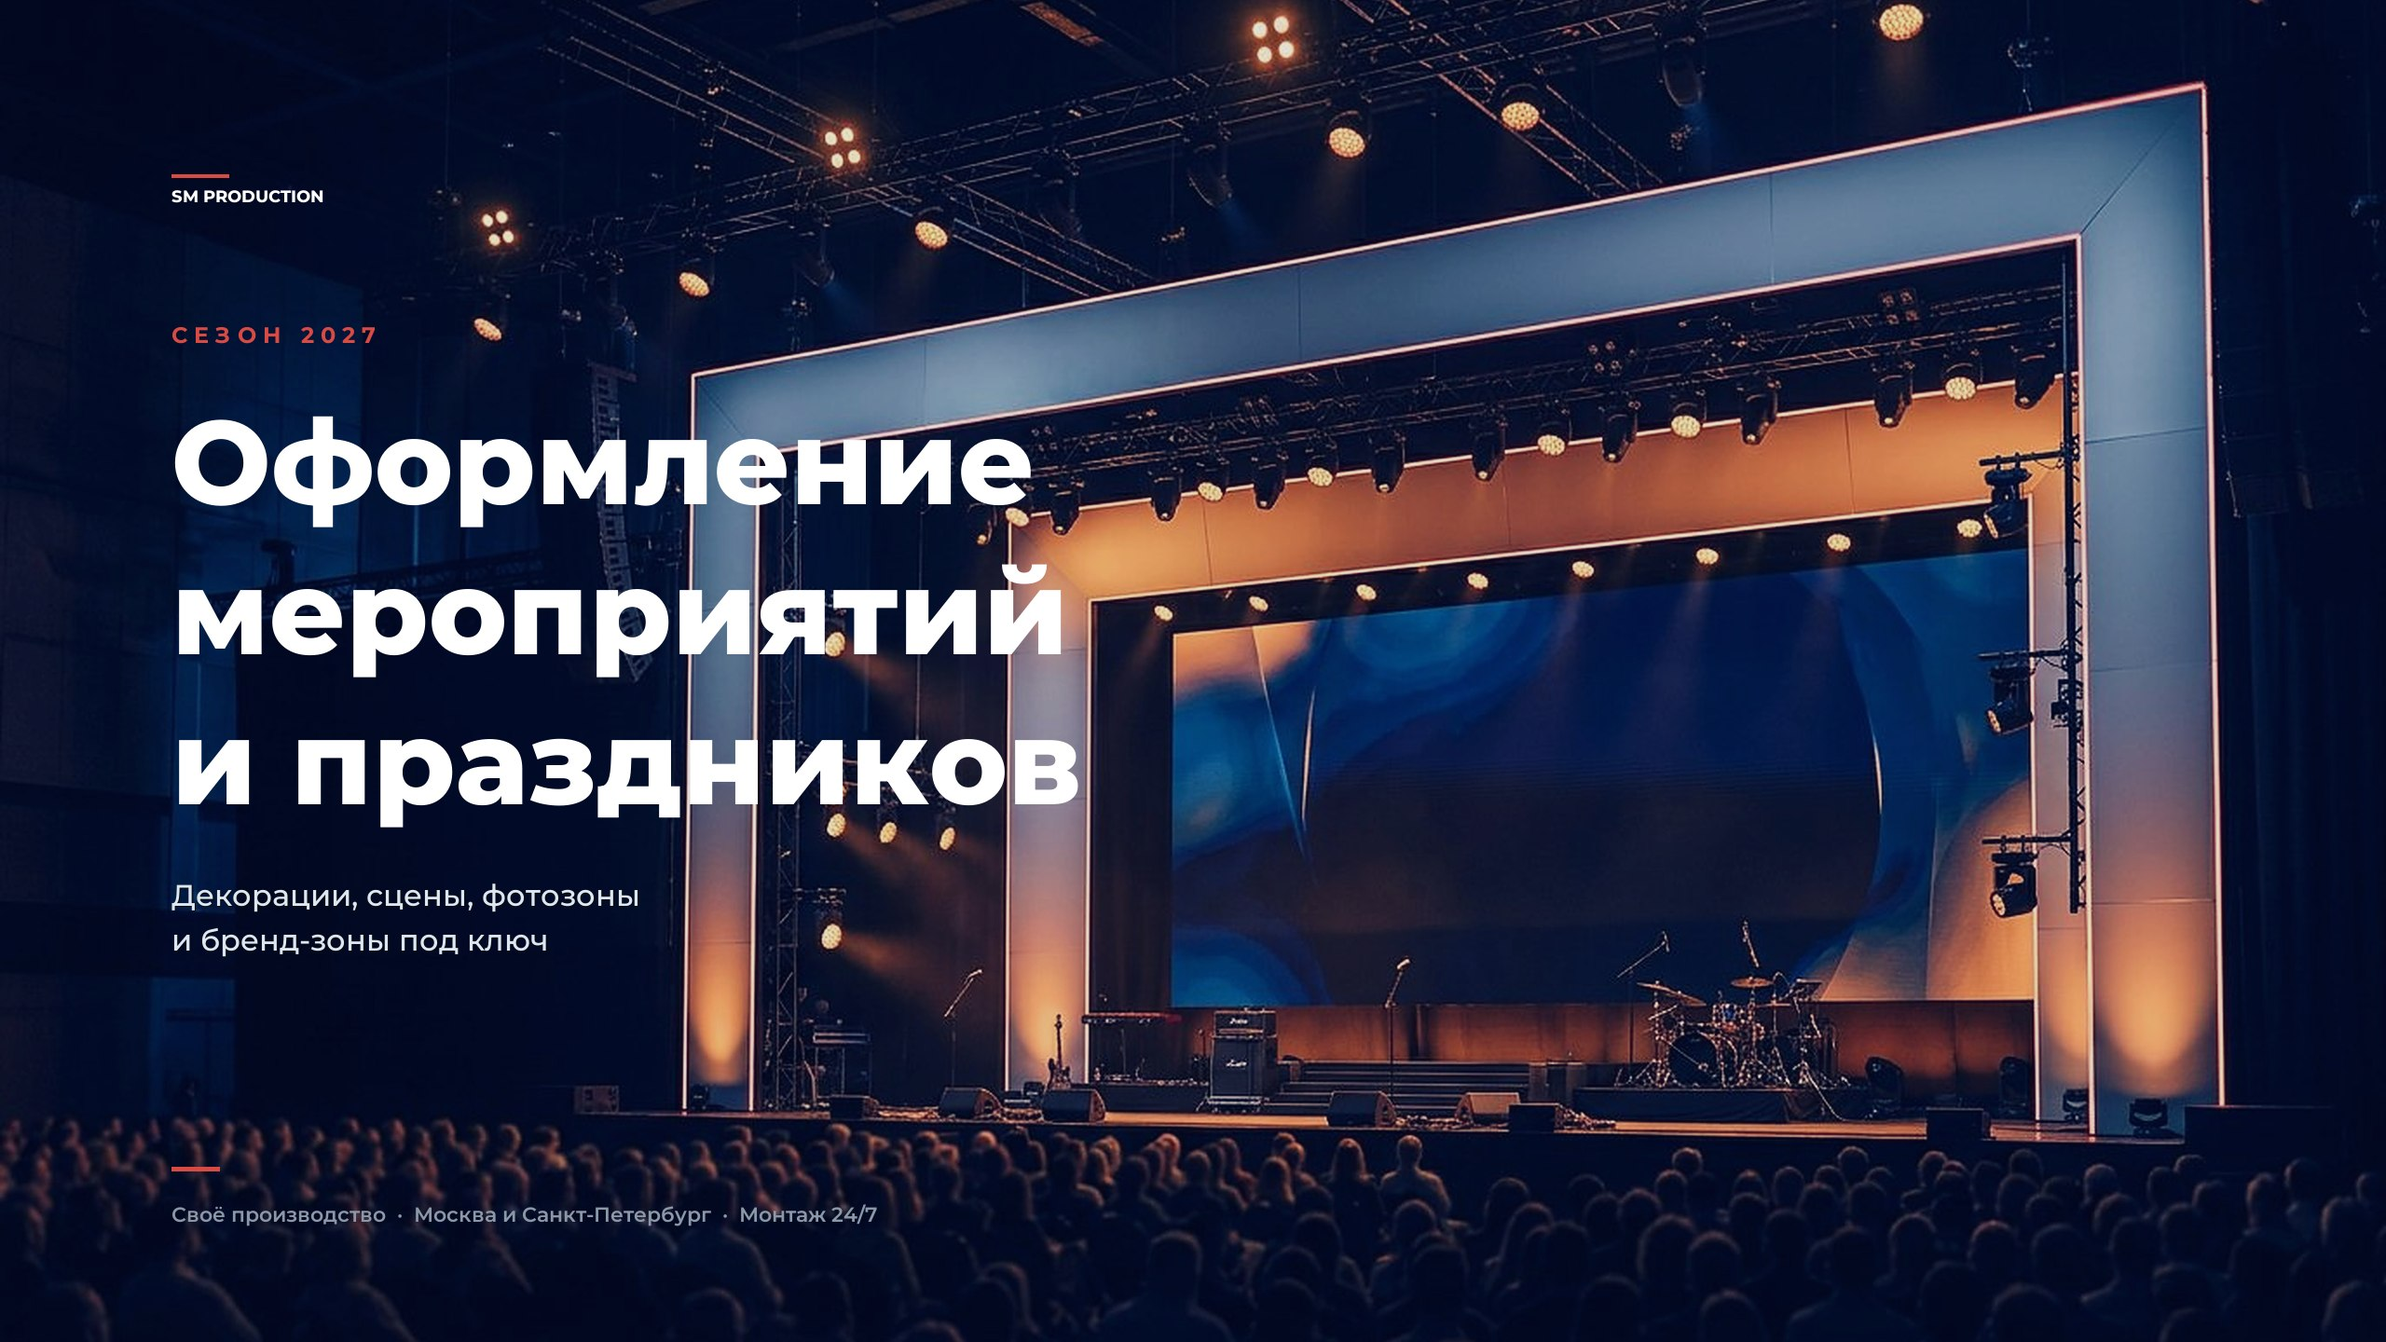
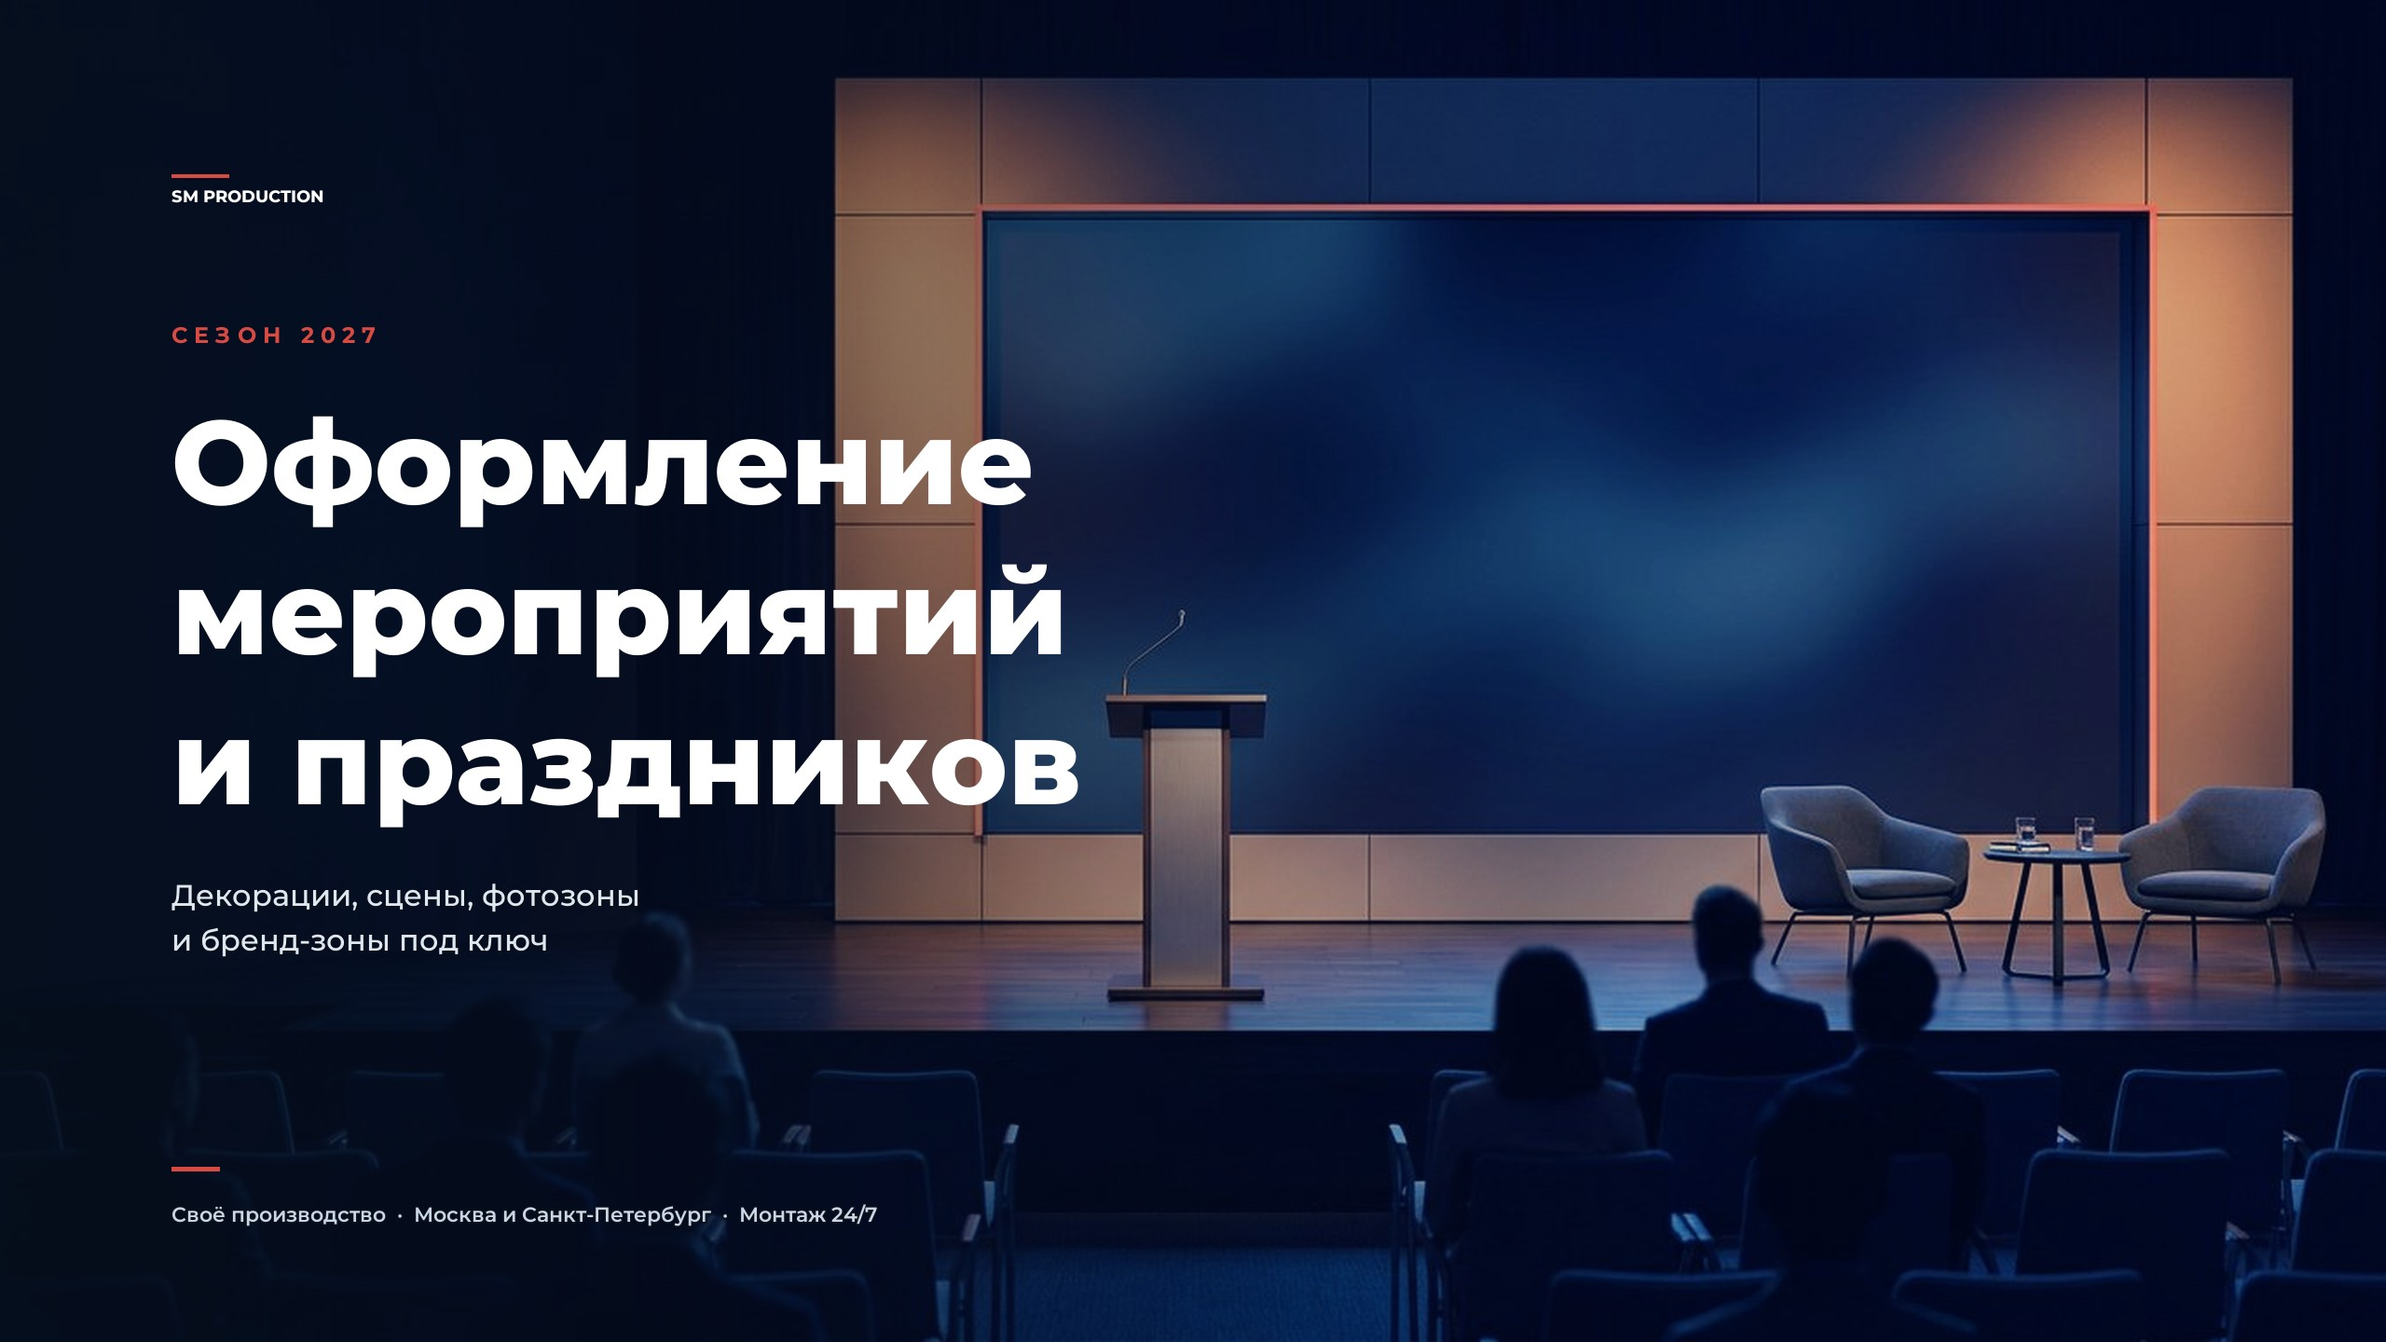
Rebuild homepage hero for conferences, fix text scrim that never applied

diff --git a/marketing/site-hero/build_cover.py b/marketing/site-hero/build_cover.py
@@ -30,7 +30,7 @@ NAVY = (8, 26, 43)
 CORAL = (217, 74, 67)
 WHITE = (255, 255, 255)
 MUTED = (188, 199, 212)
-DIM = (138, 152, 168)
+DIM = (203, 214, 228)
 
 if not FONT_VF.exists():
     raise SystemExit(f"нет шрифта: {FONT_VF}")
@@ -140,25 +140,32 @@ def vignette(image: Image.Image, strength: float = 0.34) -> Image.Image:
     return Image.composite(image, Image.blend(image, dark, strength), mask)
 
 
-def text_scrim(image: Image.Image, side: str = "left", strength: int = 238) -> Image.Image:
-    """Плотная шторка под текст: слева для десктопа, сверху для мобильного."""
+def text_scrim(image: Image.Image, side: str = "left", strength: int = 238,
+               fade: float = 0.62, power: float = 1.2, veil: int = 18) -> Image.Image:
+    """Плотная шторка под текст: слева для десктопа, сверху для мобильного.
+
+    Важно: PIL рисует прямоугольники в режиме замены, а не наложения, поэтому
+    общая вуаль кладётся отдельным слоем и композитится — иначе она стирает шторку.
+    """
     w, h = image.size
     layer = Image.new("RGBA", (w, h), (0, 0, 0, 0))
     d = ImageDraw.Draw(layer)
     if side == "left":
-        band = int(w * 0.62)
+        band = max(1, int(w * fade))
         for x in range(band):
             t = 1 - x / band
-            d.rectangle([x, 0, x + 1, h], fill=(6, 15, 27, int(strength * t ** 1.5)))
-        # общее лёгкое затемнение, чтобы свет не бил в глаза
-        d.rectangle([0, 0, w, h], fill=(6, 15, 27, 26))
+            d.rectangle([x, 0, x + 1, h], fill=(6, 15, 27, int(strength * t ** power)))
     else:
-        band = int(h * 0.78)
+        band = max(1, int(h * fade))
         for y in range(band):
             t = 1 - y / band
-            d.rectangle([0, y, w, y + 1], fill=(6, 15, 27, int(strength * t ** 1.1)))
-        d.rectangle([0, 0, w, h], fill=(6, 15, 27, 30))
-    layer = layer.filter(ImageFilter.GaussianBlur(round(min(w, h) * 0.012)))
+            d.rectangle([0, y, w, y + 1], fill=(6, 15, 27, int(strength * t ** power)))
+
+    if veil:
+        veil_layer = Image.new("RGBA", (w, h), (6, 15, 27, veil))
+        layer = Image.alpha_composite(layer, veil_layer)
+
+    layer = layer.filter(ImageFilter.GaussianBlur(max(1, round(min(w, h) * 0.010))))
     return Image.alpha_composite(image.convert("RGBA"), layer).convert("RGB")
 
 
@@ -204,9 +211,9 @@ def lockup(draw, x: int, y: int, size: int, accent=CORAL, fill=WHITE) -> int:
 
 def compose_desktop(image: Image.Image, with_text: bool) -> Image.Image:
     w, h = image.size
-    img = text_scrim(vignette(grade(image), 0.30), "left", 232)
+    img = text_scrim(vignette(grade(image), 0.30), "left", 218, fade=0.70, power=1.05)
     if not with_text:
-        return text_scrim(vignette(grade(image), 0.30), "left", 120)
+        return text_scrim(vignette(grade(image), 0.30), "left", 120, fade=0.70, power=1.05)
 
     draw = ImageDraw.Draw(img)
     m = round(w * 0.072)
@@ -237,15 +244,16 @@ def compose_desktop(image: Image.Image, with_text: bool) -> Image.Image:
     proof_face = font(round(h * 0.0155), 600)
     py = h - round(h * 0.105)
     draw.rectangle([m, py - round(h * 0.026), m + round(w * 0.020), py - round(h * 0.026) + max(3, round(h * 0.003))], fill=CORAL)
-    draw.text((m, py), PROOF, font=proof_face, fill=DIM)
+    draw.text((m, py), PROOF, font=proof_face, fill=DIM,
+              stroke_width=max(1, round(h * 0.0012)), stroke_fill=(6, 15, 27))
     return img
 
 
 def compose_mobile(image: Image.Image, with_text: bool) -> Image.Image:
     w, h = image.size
-    img = text_scrim(vignette(grade(image), 0.32), "top", 250)
+    img = text_scrim(vignette(grade(image), 0.30), "top", 232, fade=0.62, power=0.9)
     if not with_text:
-        return text_scrim(vignette(grade(image), 0.32), "top", 110)
+        return text_scrim(vignette(grade(image), 0.32), "top", 110, fade=0.62, power=0.9)
 
     draw = ImageDraw.Draw(img)
     m = round(w * 0.088)
@@ -271,7 +279,8 @@ def compose_mobile(image: Image.Image, with_text: bool) -> Image.Image:
 
     proof_face = font(round(w * 0.028), 600)
     py = h - round(h * 0.062)
-    draw.text((m, py), "Москва и Санкт-Петербург", font=proof_face, fill=DIM)
+    draw.text((m, py), "Москва и Санкт-Петербург", font=proof_face, fill=DIM,
+              stroke_width=max(1, round(w * 0.0018)), stroke_fill=(6, 15, 27))
     return img
 
 
@@ -289,8 +298,8 @@ def save(image: Image.Image, name: str, max_kb: int) -> None:
 
 
 def main() -> int:
-    desk = Image.open(SRC / "scene-v2-big.jpg").convert("RGB")
-    mob_src = Image.open(SRC / "scene-v2-mobile.jpg").convert("RGB")
+    desk = Image.open(SRC / "scene-conf.jpg").convert("RGB")
+    mob_src = Image.open(SRC / "scene-conf-mobile.jpg").convert("RGB")
 
     # приводим сцены к точным целевым размерам до наложения текста
     desk_wide = cover_crop(desk, (2560, 1440), (0.5, 0.45))

diff --git a/marketing/site-hero/cover/README.md b/marketing/site-hero/cover/README.md
@@ -6,12 +6,12 @@
 
 | Файл | Размер | Вес | Куда |
 | --- | --- | --- | --- |
-| `cover-desktop-text-2560x1440.jpg` | 2560×1440 | 477 КБ | ретина-экраны, если Tilda принимает |
-| `cover-desktop-text-1920x1080.jpg` | 1920×1080 | 306 КБ | **основной файл для главной** |
-| `cover-desktop-clean-1920x1080.jpg` | 1920×1080 | 266 КБ | если заголовок остаётся текстом в HTML |
-| `cover-mobile-text-1080x1920.jpg` | 1080×1920 | 260 КБ | телефон, отдельный фон |
-| `cover-mobile-clean-1080x1920.jpg` | 1080×1920 | 254 КБ | телефон без текста |
-| `og-1200x630.jpg` | 1200×630 | 139 КБ | соцпревью для ссылок |
+| `cover-desktop-text-2560x1440.jpg` | 2560×1440 | 272 КБ | ретина-экраны, если Tilda принимает |
+| `cover-desktop-text-1920x1080.jpg` | 1920×1080 | 185 КБ | **основной файл для главной** |
+| `cover-desktop-clean-1920x1080.jpg` | 1920×1080 | 141 КБ | если заголовок остаётся текстом в HTML |
+| `cover-mobile-text-1080x1920.jpg` | 1080×1920 | 226 КБ | телефон, отдельный фон |
+| `cover-mobile-clean-1080x1920.jpg` | 1080×1920 | 189 КБ | телефон без текста |
+| `og-1200x630.jpg` | 1200×630 | 94 КБ | соцпревью для ссылок |
 | `preview.jpg` | — | — | все варианты на одном листе |
 
 ## Что было не так в первой версии
@@ -26,13 +26,31 @@
 
 Проверка: перед публикацией любой такой кадр смотреть в 100% масштабе на верхнюю планку каше и на стойки. На общем плане складки не видны, в зуме — видны сразу.
 
+## Третья версия: деловые мероприятия, а не концерт
+
+Вторая версия показывала сцену с барабанной установкой, гитарами и стойками — это читалось как концерт, а компания работает с конференциями, форумами и презентациями. Кадр заменён целиком: кафедра с петличным микрофоном, за кафедрой LED-экран в каше, справа лаунж-зона с двумя креслами и столиком, внизу зал в креслах с людьми. Музыкального реквизита в кадре нет.
+
+Мобильный кадр сгенерирован с тем же описанием конструкции, чтобы на телефоне была та же рама, а не похожая.
+
+### Попутно исправлена ошибка, из-за которой затемнение не работало
+
+В скрипте затемнение под текст рисовалось в один слой, а сверху клалась общая «вуаль» — но Pillow рисует прямоугольники в режиме замены, а не наложения. Вуаль перезаписывала шторку, и фактически её не было: и на десктопе, и на мобильном текст держался только на тёмном кадре. На светлых панелях каше контраст падал до 2,4:1 при норме 4,5:1.
+
+Теперь вуаль кладётся отдельным слоем и композитится. Контраст белого текста по 95-му перцентилю фона:
+
+| Зона | Десктоп | Мобильный |
+| --- | --- | --- |
+| Заголовок | 5,4–7,4:1 | 7,2–17,7:1 |
+| Подзаголовок | 6,9:1 | 6,6:1 |
+| Нижняя строка | 15:1 | 17,7:1 |
+
 ## Почему так, а не иначе
 
-**Кадр.** Сцена видна с точки обзора, с людьми в первом плане: есть масштаб и понятно, что это живое мероприятие, а не пустая площадка. Каше — плоские панели с ровными швами, без складок и провисов.
+**Кадр.** Конференц-сцена с точки обзора, с залом в первом плане: есть масштаб и понятно, что площадка деловая, а не концертная. Каше — плоские панели с ровными швами, без складок и провисов.
 
 **Свет.** Глубокий синий в тенях, тёплый янтарь в свете, редкие коралловые акценты — ровно фирменная пара из ваших же материалов. Кадр не жёлтый и не оливковый.
 
-**Текст.** Заголовок стоит в левой затемнённой зоне, подзаголовок — под ним, доказательство («Своё производство · Москва и Санкт-Петербург · Монтаж 24/7») — внизу. Средняя яркость 66 из 255, пересветов 0,3%: белый текст читается без обводок.
+**Текст.** Заголовок стоит в левой затемнённой зоне, подзаголовок — под ним, доказательство («Своё производство · Москва и Санкт-Петербург · Монтаж 24/7») — внизу. Контраст проверен по фону без текста, а не на глаз.
 
 **Мобильная версия отдельная.** Не обрезка широкого кадра, а свой композиционный кадр: сцена целиком, текст сверху в плотном затемнении. Если поставить горизонтальный файл на телефон, заголовок окажется на светлом экране сцены.
 
